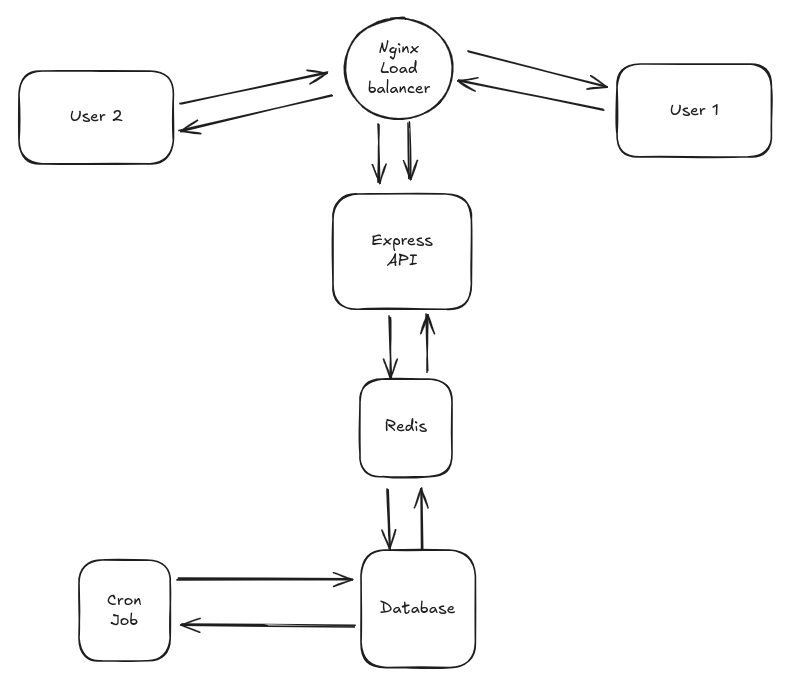
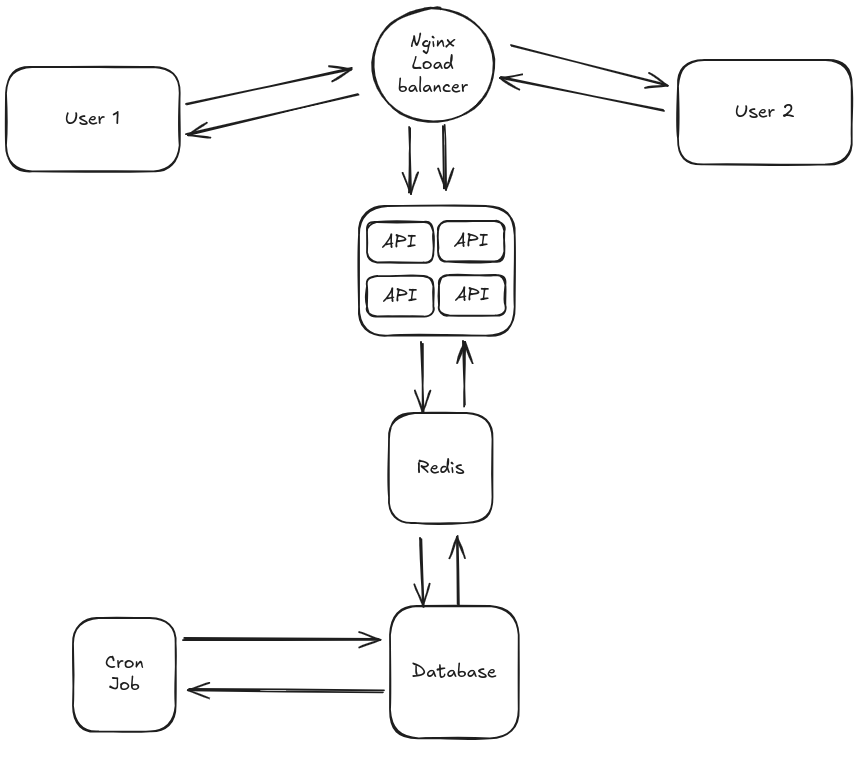
🚀 lead balancer added

Changed region(s): [[0.0, 0.0, 0.9937, 0.9655], [0.8432, 0.1207, 0.9335, 0.181], [0.0602, 0.1509, 0.1506, 0.181]]

diff --git a/README.md b/README.md
@@ -1,8 +1,9 @@
 # Dynamic Question Assignment System
 
 <img src="https://github.com/iMiebaka/QRS/blob/main/design-diagram.png?raw=true" />
+
 ### Overview
-This project is a scalable system designed to assign dynamic questions to users based on their region and the current cycle. Each region receives a different set of questions, and questions rotate on a configurable cycle (e.g., every week, every two weeks). The system is built using Node.js, Express, MongoDB, and Redis for caching, with scheduled updates managed by cron jobs.
+This project is a scalable system designed to assign dynamic questions to users based on their region and the current cycle. Each region receives a different set of questions, and questions rotate on a configurable cycle (e.g., every week, every two weeks). The system is built using Node.js, Express, DynamoDB, and Redis for caching, with scheduled updates managed by cron jobs.
 
 The system is capable of handling millions of users by optimizing performance through database design, caching, and efficient API architecture.
 
@@ -10,31 +11,32 @@ The system is capable of handling millions of users by optimizing performance th
 <strong> - Region-Specific Questions</strong>: Each region gets its own set of questions.
 <strong> - Configurable Cycle Duration</strong>: You can configure the duration of each cycle (e.g., 7 days, 14 days) using the config collection.
 <strong> - Automated Question Rotation</strong>: Questions are rotated automatically at the end of each cycle through a cron job that runs periodically.
-<strong> - Scalability</strong>: The system is optimized for high traffic, with Redis used to cache the current question for each region, reducing load on MongoDB.
-<strong> - Flexibility</strong>: MongoDB provides flexibility in schema design, allowing for easy modifications to questions, cycles, and configurations.
+<strong> - Scalability</strong>: The system is optimized for high traffic, with Redis used to cache the current question for each region, reducing load on database.
+<strong> - Flexibility</strong>: DynamoDB provides flexibility in schema design, allowing for easy modifications to questions, cycles, and configurations.
 
 ## Architecture
 ### Components
 <strong> - Client</strong>: Users from different regions send requests to fetch the current question.
-<strong> - Express.js API</strong>: Handles client requests, manages business logic, and interacts with MongoDB for question and cycle data.
-MongoDB:
+<strong> - Load balancer </strong>: Since this app is take a whole lot of user multiple instance of the app is pointed to the load balancer (Nginx)
+<strong> - Express.js API</strong>: Handles client requests, manages business logic, and interacts with DynamoDB for question and cycle data.
+DynamoDB:
 <strong> - Questions Collection </strong>: Stores questions for each region.
 <strong> - Cycles Collection </strong>: Tracks the current question and cycle start time for each region.
 <strong> - Config Collection </strong>: Stores the cycle duration for each region.
 <strong> - Redis (Optional) </strong>: Caches the current question for each region to speed up request responses.
 <strong> - Cron Job</strong>: Automatically rotates the question at the end of each cycle based on the configuration.
 
-### Flow of Events
+## Flow of Events
 
 #### Client Request:
-The client sends a request to the API endpoint /current-question?region=US to fetch the current question for their region.
+The client sends a request to the API endpoint /current-question?region=US (or do an IP lookup to set the region) to fetch the current question for their region.
 The API first checks if the current question is cached in Redis.
 <strong> - Cache Hit </strong>: Returns the cached question.
-<strong> - Cache Miss </strong>: Fetches the question from MongoDB, stores it in Redis for future requests, and returns the question to the client.
+<strong> - Cache Miss </strong>: Fetches the question from DynamoDB, stores it in Redis for future requests, and returns the question to the client.
 
 #### Question Rotation:
 A cron job runs at the configured interval (e.g., every Monday at 7 PM SGT) to check if a new cycle has started.
-The job fetches the current cycle for each region from MongoDB, checks if the current cycle duration has expired, and if so, updates the cycle with the next question.
+The job fetches the current cycle for each region from DynamoDB, checks if the current cycle duration has expired, and if so, updates the cycle with the next question.
 
 <strong>Cycle Management</strong>:
 The config collection stores the duration of each cycle (in days).
